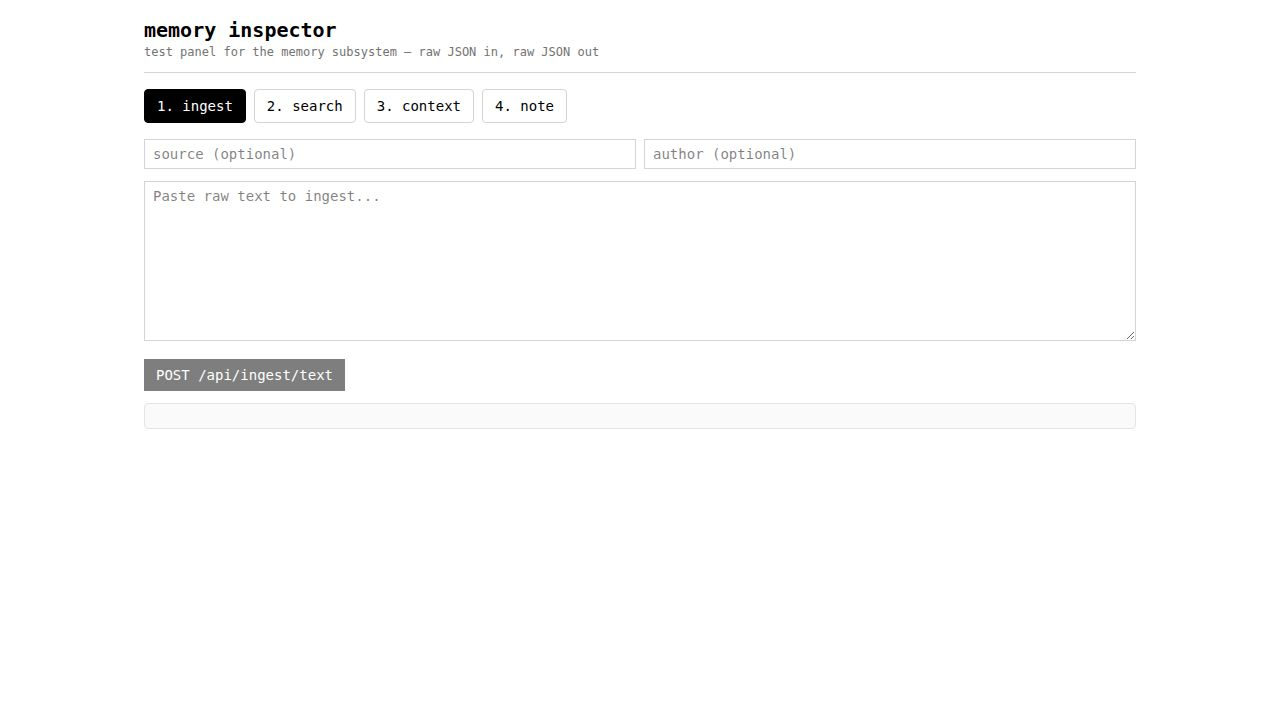
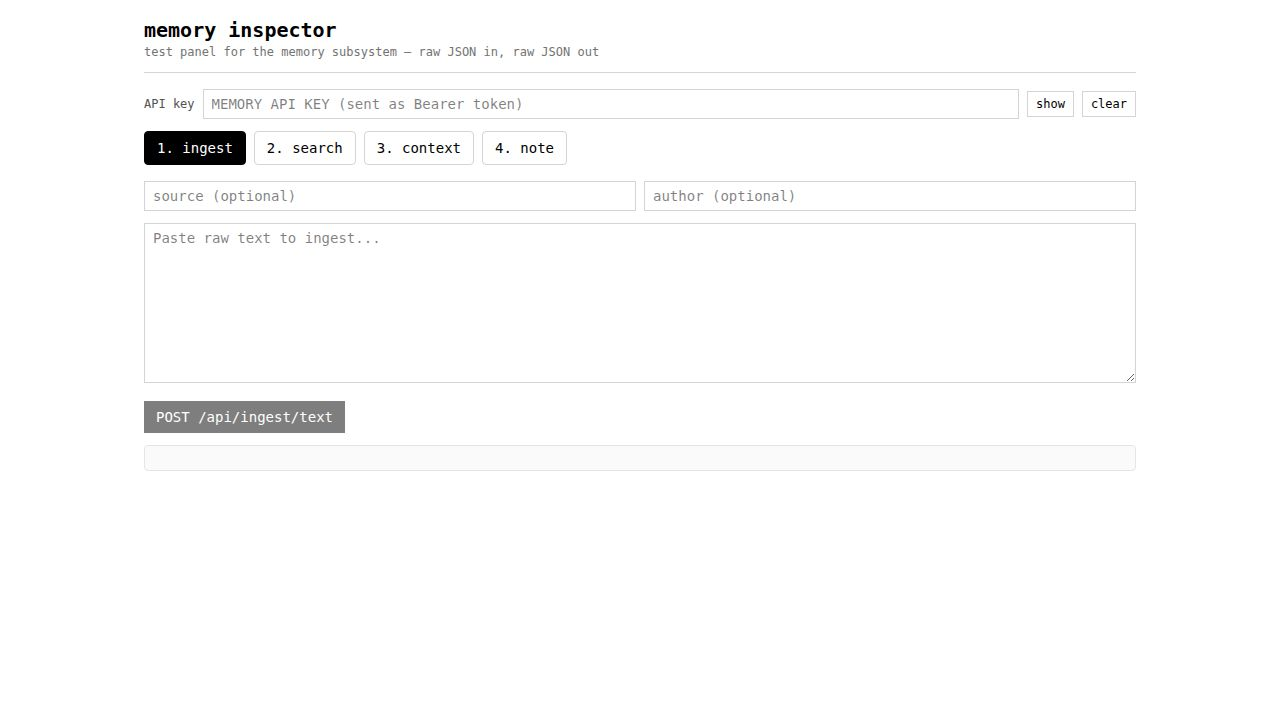
Add API key authentication and inspector field for secure API access
Introduces a new Express middleware to enforce API key authentication for memory-related API routes, validates requests against the MEMORY_API_KEY environment variable, and adds an API key input field to the inspector panel that persists the key in localStorage.

Replit-Commit-Author: Agent
Replit-Commit-Session-Id: 6a0c468b-7926-4533-9e23-0a381948f5ea
Replit-Commit-Checkpoint-Type: full_checkpoint
Replit-Commit-Event-Id: 770b17ea-0fc7-457c-88bf-5cee4a07b321
Replit-Commit-Screenshot-Url: https://storage.googleapis.com/screenshot-production-us-central1/a00610a5-356d-4bd4-b369-d6eec92f382b/6a0c468b-7926-4533-9e23-0a381948f5ea/Yco9qtP
Replit-Helium-Checkpoint-Created: true

diff --git a/artifacts/inspector/src/App.tsx b/artifacts/inspector/src/App.tsx
@@ -1,12 +1,78 @@
-import { useState } from "react";
+import { useEffect, useState } from "react";
 import {
   ingestText,
   searchNotes,
   buildContext,
   getNote,
+  setAuthTokenGetter,
 } from "@workspace/api-client-react";
 
 type Pane = "ingest" | "search" | "context" | "note";
+
+const API_KEY_STORAGE_KEY = "memory.inspector.apiKey";
+
+function readStoredKey(): string {
+  if (typeof window === "undefined") return "";
+  try {
+    return window.localStorage.getItem(API_KEY_STORAGE_KEY) ?? "";
+  } catch {
+    return "";
+  }
+}
+
+let currentKey = readStoredKey();
+setAuthTokenGetter(() => currentKey || null);
+
+function setApiKey(value: string) {
+  currentKey = value;
+  try {
+    if (value) {
+      window.localStorage.setItem(API_KEY_STORAGE_KEY, value);
+    } else {
+      window.localStorage.removeItem(API_KEY_STORAGE_KEY);
+    }
+  } catch {
+    /* ignore */
+  }
+}
+
+function ApiKeyBar() {
+  const [value, setValue] = useState<string>(() => readStoredKey());
+  const [revealed, setRevealed] = useState(false);
+
+  useEffect(() => {
+    setApiKey(value);
+  }, [value]);
+
+  return (
+    <div className="flex gap-2 items-center mb-3">
+      <label className="text-xs font-mono text-neutral-600 shrink-0">
+        API key
+      </label>
+      <input
+        type={revealed ? "text" : "password"}
+        className="flex-1 border border-neutral-300 px-2 py-1 text-sm font-mono"
+        placeholder="MEMORY_API_KEY (sent as Bearer token)"
+        value={value}
+        onChange={(e) => setValue(e.target.value)}
+      />
+      <button
+        type="button"
+        onClick={() => setRevealed((r) => !r)}
+        className="text-xs font-mono border border-neutral-300 px-2 py-1 hover:border-neutral-500"
+      >
+        {revealed ? "hide" : "show"}
+      </button>
+      <button
+        type="button"
+        onClick={() => setValue("")}
+        className="text-xs font-mono border border-neutral-300 px-2 py-1 hover:border-neutral-500"
+      >
+        clear
+      </button>
+    </div>
+  );
+}
 
 function Section({
   id,
@@ -260,6 +326,7 @@ function App() {
           test panel for the memory subsystem &mdash; raw JSON in, raw JSON out
         </p>
       </header>
+      <ApiKeyBar />
       <nav className="flex gap-2 mb-4 flex-wrap">
         <Section id="ingest" title="1. ingest" active={active} onClick={setActive} />
         <Section id="search" title="2. search" active={active} onClick={setActive} />

diff --git a/artifacts/api-server/src/middlewares/apiKey.ts b/artifacts/api-server/src/middlewares/apiKey.ts
@@ -1,0 +1,41 @@
+import type { Request, Response, NextFunction, RequestHandler } from "express";
+import { logger } from "../lib/logger";
+
+const HEADER = "authorization";
+const PREFIX = "Bearer ";
+
+function timingSafeEquals(a: string, b: string): boolean {
+  if (a.length !== b.length) return false;
+  let mismatch = 0;
+  for (let i = 0; i < a.length; i++) {
+    mismatch |= a.charCodeAt(i) ^ b.charCodeAt(i);
+  }
+  return mismatch === 0;
+}
+
+export function requireApiKey(): RequestHandler {
+  const expected = process.env.MEMORY_API_KEY;
+  if (!expected) {
+    // Fail-closed: never start serving protected routes without a configured key.
+    logger.fatal(
+      "MEMORY_API_KEY is not set. Refusing to start the memory API without an API key configured.",
+    );
+    throw new Error(
+      "MEMORY_API_KEY environment variable is required to start the memory API.",
+    );
+  }
+
+  return (req: Request, res: Response, next: NextFunction) => {
+    const header = req.header(HEADER) ?? "";
+    if (!header.startsWith(PREFIX)) {
+      res.status(401).json({ error: "Missing or invalid Authorization header" });
+      return;
+    }
+    const token = header.slice(PREFIX.length).trim();
+    if (!token || !timingSafeEquals(token, expected!)) {
+      res.status(401).json({ error: "Invalid API key" });
+      return;
+    }
+    next();
+  };
+}

diff --git a/artifacts/api-server/src/routes/index.ts b/artifacts/api-server/src/routes/index.ts
@@ -1,10 +1,12 @@
 import { Router, type IRouter } from "express";
 import healthRouter from "./health";
 import memoryRouter from "./memory";
+import { requireApiKey } from "../middlewares/apiKey";
 
 const router: IRouter = Router();
 
+// /healthz is public so liveness checks don't need a key.
 router.use(healthRouter);
-router.use(memoryRouter);
+router.use(requireApiKey(), memoryRouter);
 
 export default router;
